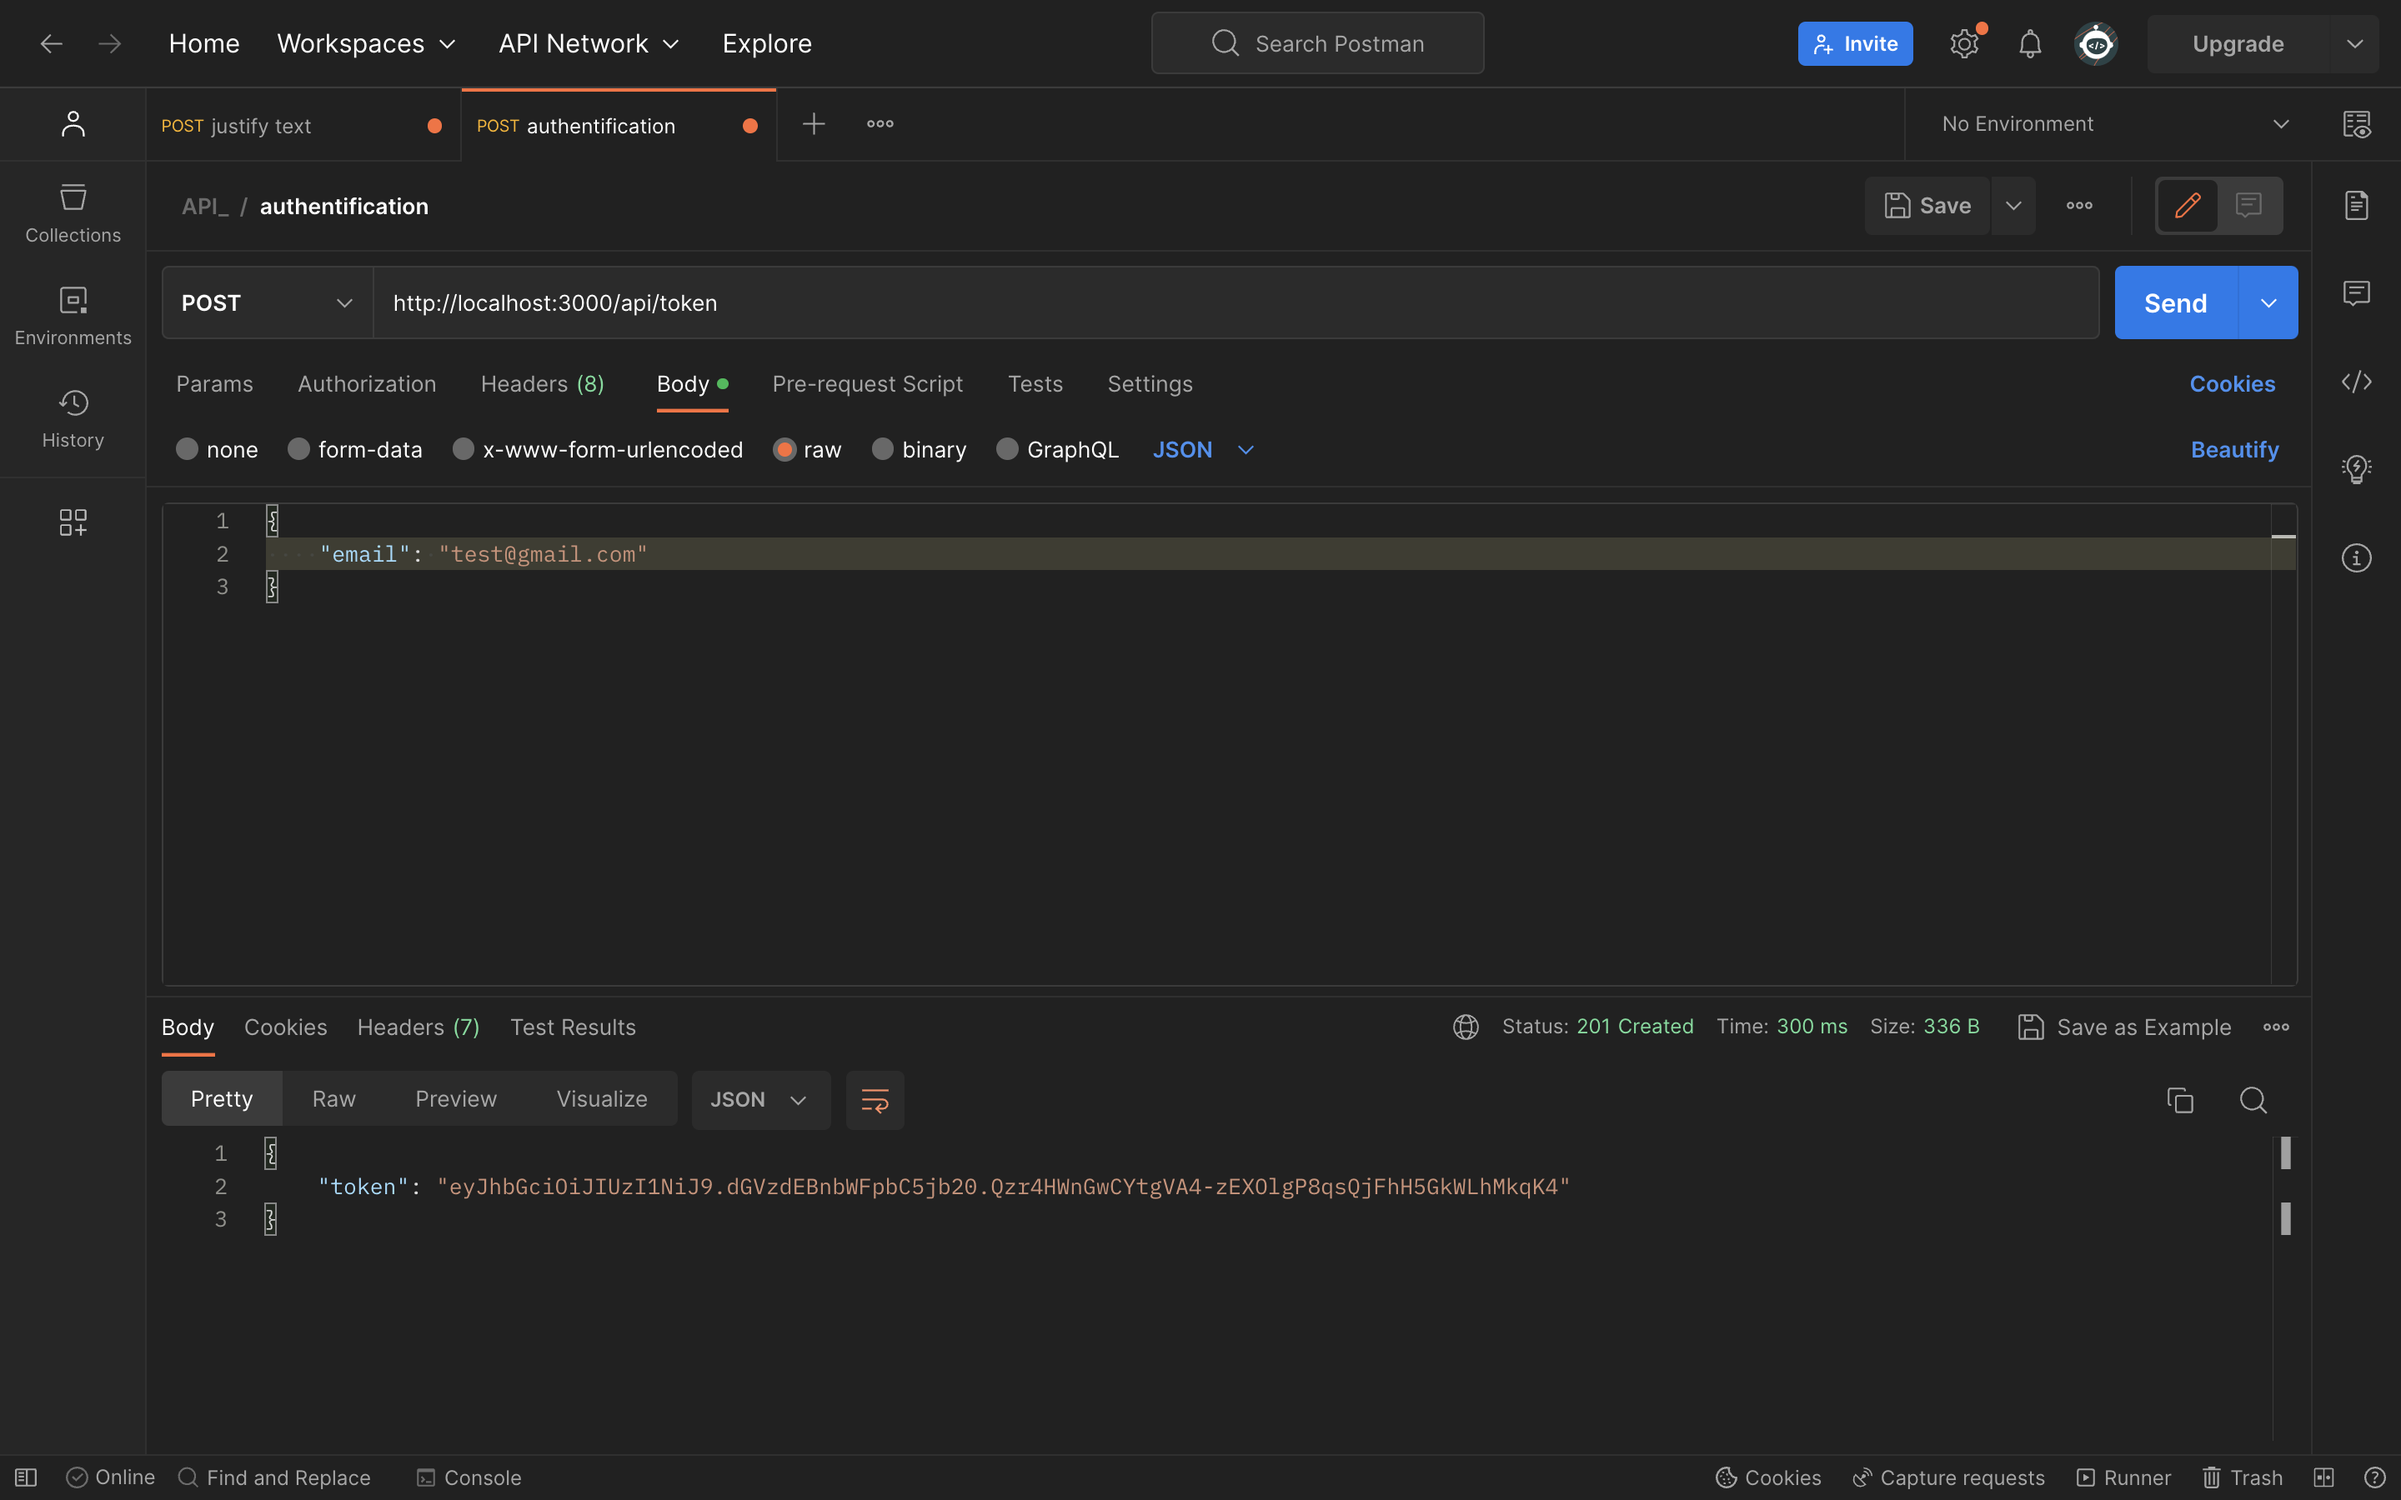
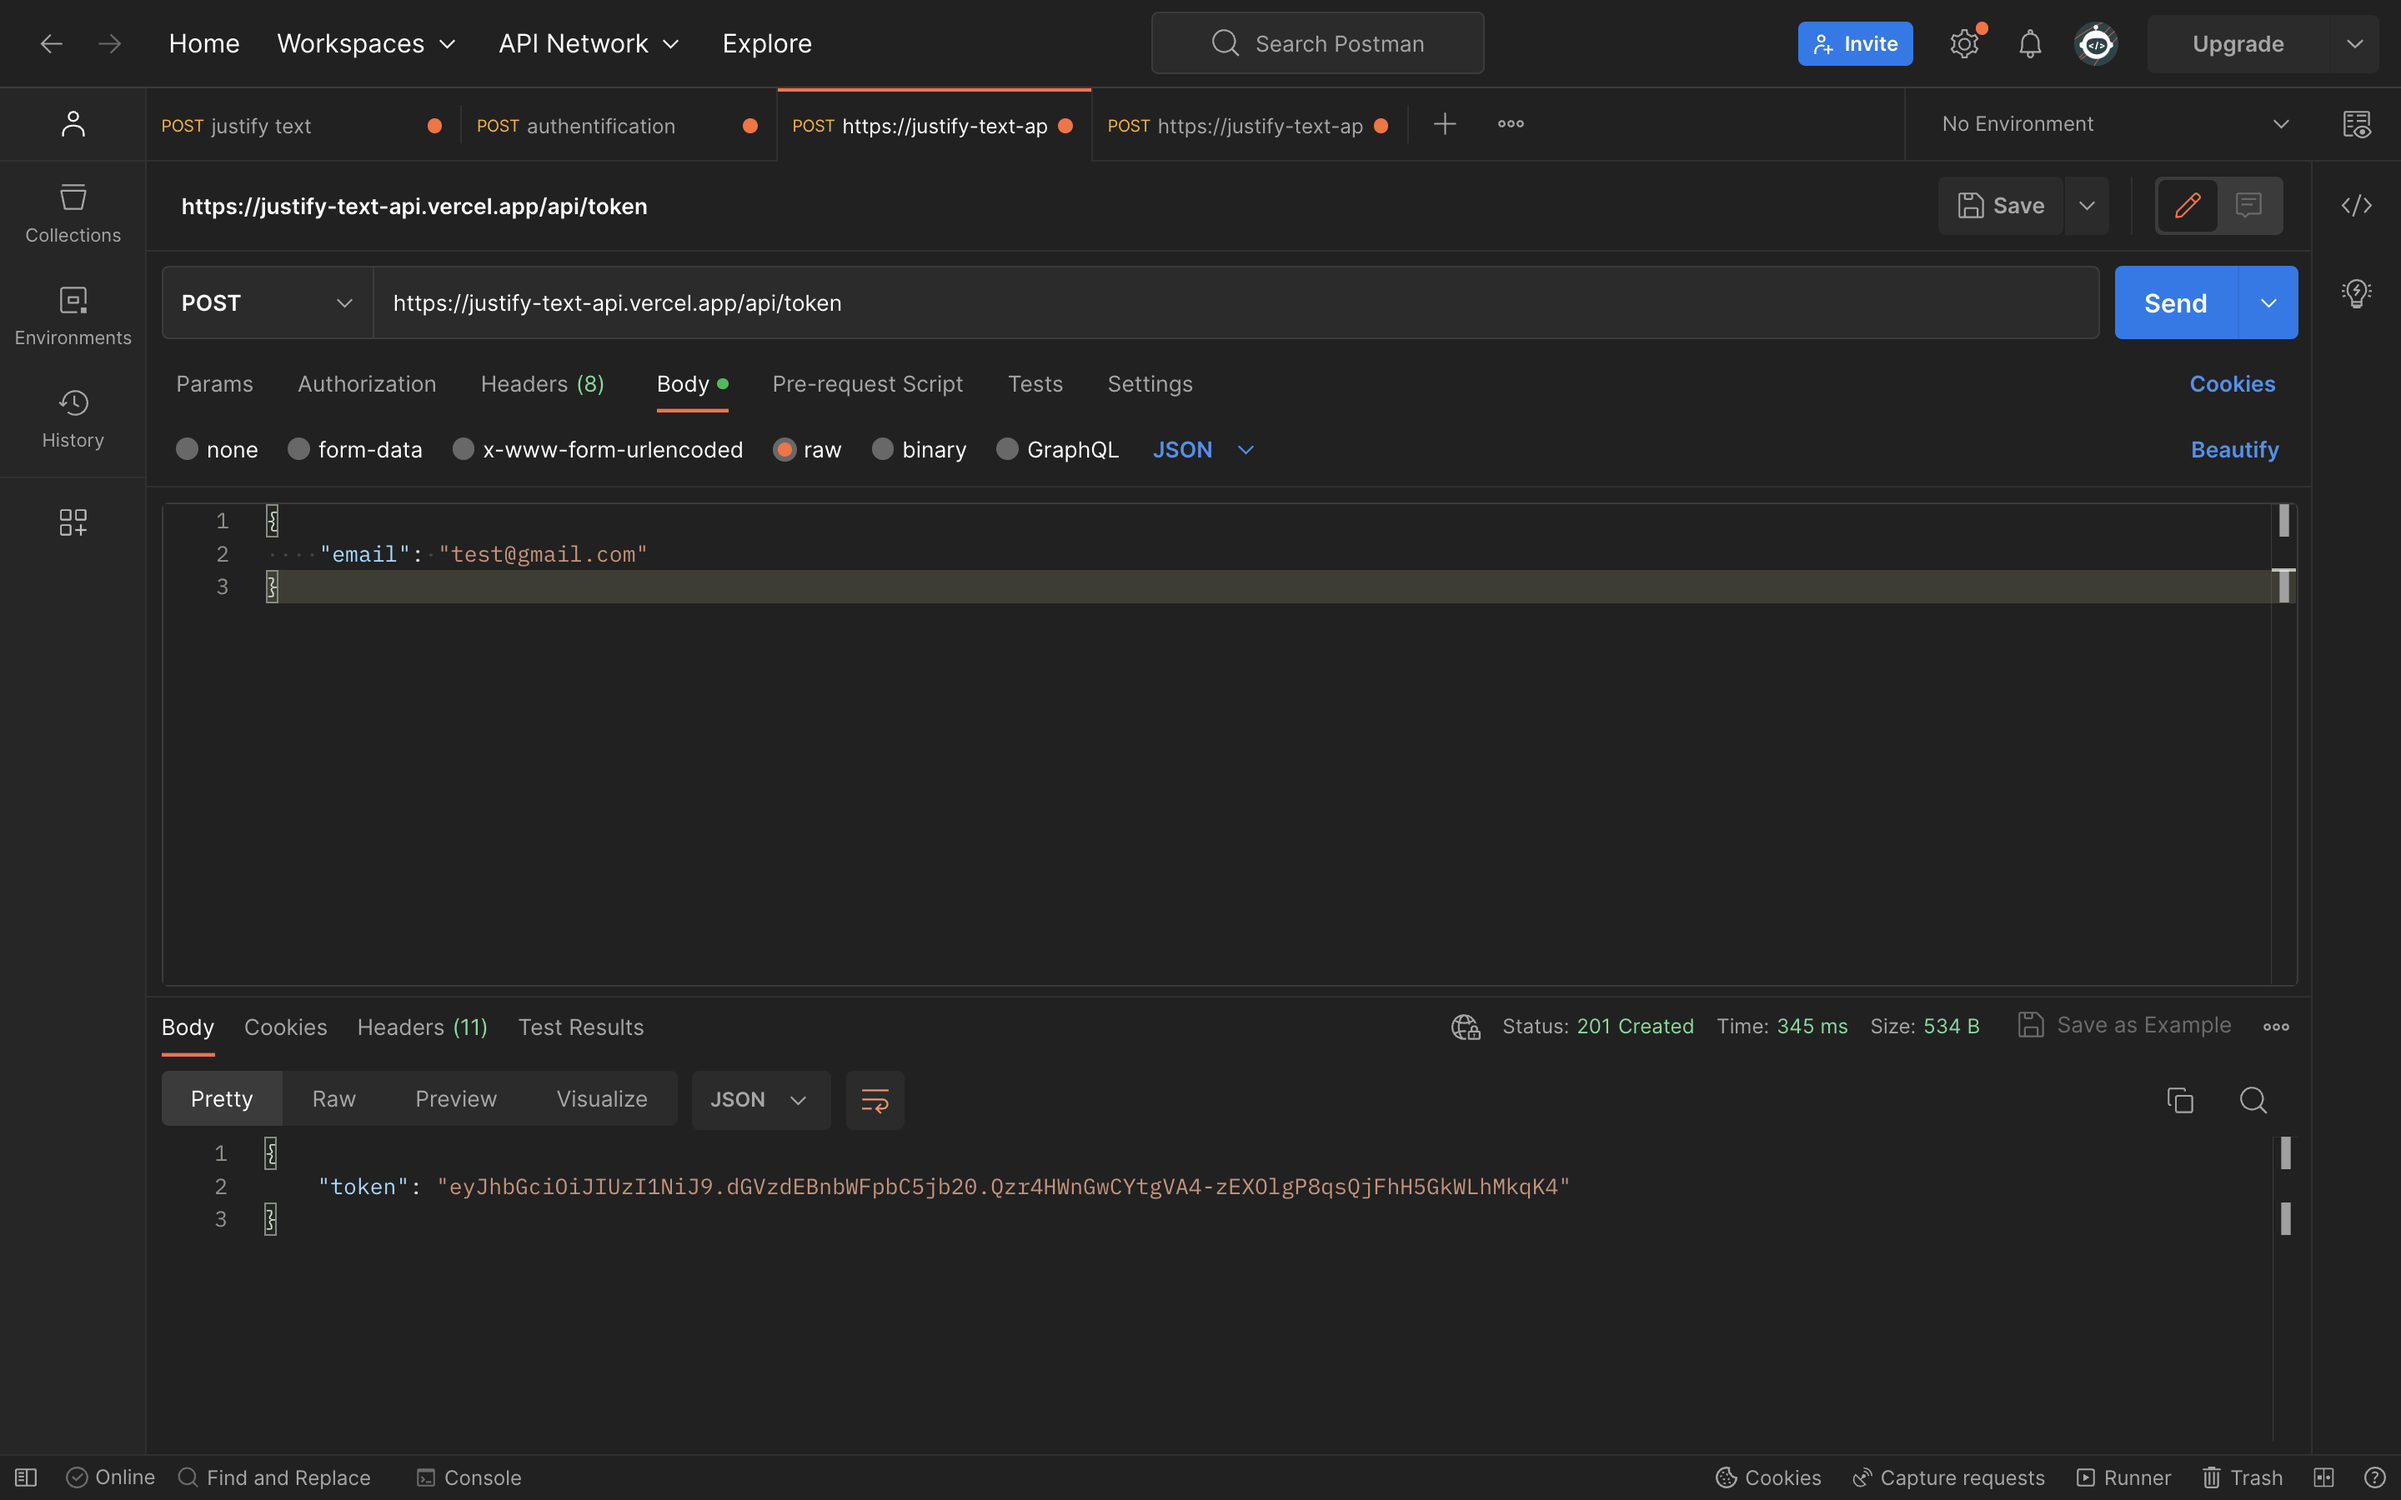
last commit, api deploy

diff --git a/src/index.ts b/src/index.ts
@@ -32,7 +32,7 @@ app.get('/', (req: Request,res: Response) => {
 
 // Démarrage du serveur
 app.listen(port, () => {
-  console.log(`Server listening at http://localhost:${port}`);
+  console.log(`Server listening at https://justify-text-api.vercel.app/`);
 });
 
 // Route pour justifier un texte

diff --git a/README.md b/README.md
@@ -1,6 +1,8 @@
 # API_Justify_Text
 
 Ce projet est une API REST développée en Node.js et TypeScript pour la startup Tictactrip. L'API permet de justifier un texte avec une largeur de ligne de 80 caractères. L'utilisateur doit fournir son adresse e-mail pour s'authentifier et accéder à l'API, avec une limite quotidienne de 80 000 mots.
+Celle-ci est déployée avec vercel.
+--> https://justify-text-api.vercel.app/
 
 ## Technologies utilisées
 
@@ -11,14 +13,9 @@ Ce projet est une API REST développée en Node.js et TypeScript pour la startup
 * Mongoose
 * Jsonwebtoken
 
-## Installation
-
-* Clonez le dépôt GitHub.
-* Installez les dépendances : npm install.
-* Lancez le serveur : npm run dev.
-
 ## Utilisation
 
+URL public --> https://justify-text-api.vercel.app/
 L'API peut être utilisée via deux endpoints :
 
 Endpoint /api/token (méthode HTTP POST) : Les données doivent être envoyées sous forme de JSON avec la clé "email" contenant l'adresse e-mail utilisée pour l'authentification. Cette adresse e-mail sera enregistrée dans la base de données, et un jeton (token) sera créé et renvoyé en réponse.
@@ -29,11 +26,11 @@ Endpoint /api/justify (méthode HTTP POST) : Les données doivent être envoyée
 
 Afin de tester et utiliser les routes, vous pouvez utiliser l'application Postman.
 
-Effectuez une requête vers l'endpoint /api/token avec la méthode POST, en ajoutant dans le corps (body) de la requête un champ "email" contenant votre adresse e-mail. Appuyez sur "Send" pour recevoir votre jeton d'authentification (token). Cela vous enregistrera dans la base de données.
+Effectuez une requête vers l'endpoint /api/token (https://justify-text-api.vercel.app/api/token) avec la méthode POST, en ajoutant dans le corps (body) de la requête un champ "email" contenant votre adresse e-mail. Appuyez sur "Send" pour recevoir votre jeton d'authentification (token). Cela vous enregistrera dans la base de données.
 
 ![/api/token](assets/authentification.png "Endpoint api/token")
 
-Effectuez ensuite une requête vers l'endpoint /api/justify avec la méthode POST pour recevoir votre texte justifié. Ajoutez votre jeton d'authentification (token) dans le header en utilisant l'en-tête 'Authorization' avec la valeur 'Bearer (token)'.
+Effectuez ensuite une requête vers l'endpoint /api/justify (https://justify-text-api.vercel.app/api/justify) avec la méthode POST pour recevoir votre texte justifié. Ajoutez votre jeton d'authentification (token) dans le header en utilisant l'en-tête 'Authorization' avec la valeur 'Bearer (token)'.
 
 ![/api/jusitfy](assets/headerToken.png "Endpoint api/justify, header 'Authorization'")
 
